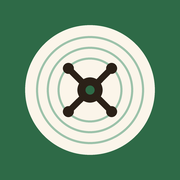
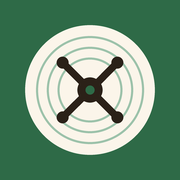
Add files via upload

diff --git a/index.html b/index.html
@@ -289,7 +289,7 @@
 
     if (n === 0) {
       $('cartes').innerHTML = '<div class="vide"><strong>Ton coffre est vide.</strong>' +
-        'Et si tu commençais par le morceau qui lui a donné son nom' + NB + '?</div>';
+        'Commence par un morceau que tu ne veux jamais perdre, ou par celui qui te trotte dans la tête sans que tu saches son nom.</div>';
       return;
     }
     if (!vus.length) {

diff --git a/sw.js b/sw.js
@@ -1,4 +1,4 @@
-const CACHE_NAME = 'voltei-v1';
+const CACHE_NAME = 'voltei-v3';
 const FICHIERS = ['./', 'index.html', 'manifest.json', 'icons/icon-180.png', 'icons/icon-192.png', 'icons/icon-512.png',
   'polices/fraunces-latin-600-normal.woff2', 'polices/fraunces-latin-700-normal.woff2',
   'polices/atkinson-hyperlegible-latin-400-normal.woff2', 'polices/atkinson-hyperlegible-latin-700-normal.woff2'];
